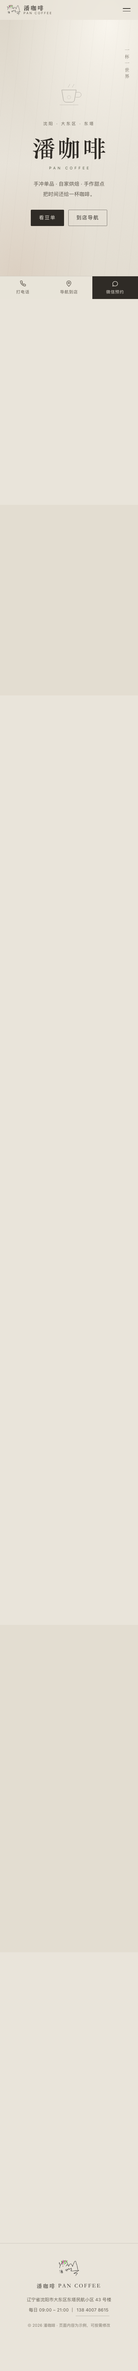
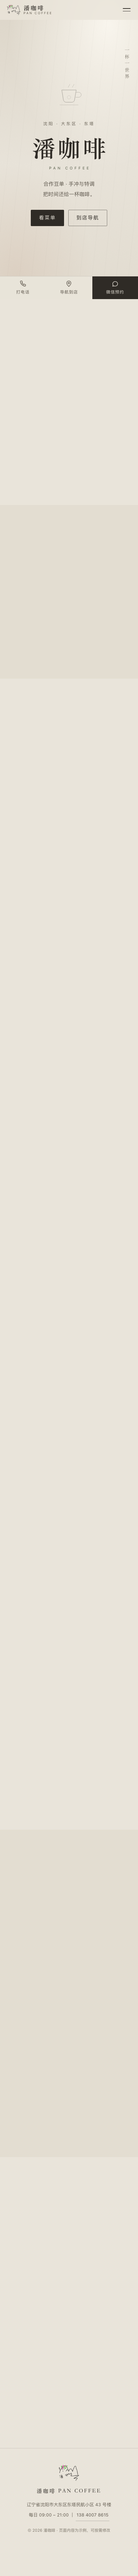
恢复菜单显示，内容改用「秋天菜单」
- 菜单区块取消注释并整体替换：5 个分类（美式/拿铁/季节限定/咖啡特调/冰沙&果茶）共 28 款
- 两个价格按已确认的「中杯 / 大杯」录入，显示为 ¥中杯/大杯，次价格小字弱化；价格列右对齐
- 序号归位为 壹~陆，抽屉目录恢复 6 项，首屏主按钮还原为「看菜单」→ #menu
- 招牌推荐 4 张卡片换成菜单里的真实款（潘神/雪国/东塔/蜂蜜黄油 Dirty），只写名称+品类+价格
- 修正此前我编造的失实文案：首屏与 SEO 去掉「自家烘焙/手作甜点」改为「合作豆单 · 手冲与特调」；
  关于正文「每周小批烘焙」改为合作烘焙商豆单；数据条改为可核实的 17 在售豆款 / 28 菜单饮品 / 5 菜单分类

diff --git a/index.html b/index.html
@@ -5,10 +5,10 @@
 <meta name="viewport" content="width=device-width, initial-scale=1, viewport-fit=cover">
 <meta name="theme-color" content="#e9e4da">
 <meta name="format-detection" content="telephone=no">
-<title>潘咖啡 · 手冲与自家烘焙｜沈阳大东区东塔</title>
-<meta name="description" content="潘咖啡，藏在沈阳大东区东塔民航小区里的手冲咖啡馆。自家烘焙单品豆、意式咖啡与手作甜点，欢迎来坐一会儿。">
+<title>潘咖啡 · 合作豆单与手冲特调｜沈阳大东区东塔</title>
+<meta name="description" content="潘咖啡，藏在沈阳大东区东塔民航小区里的咖啡店。合作豆单、手冲与咖啡特调，秋天菜单已上线，欢迎来坐一会儿。">
 <meta property="og:type" content="website">
-<meta property="og:title" content="潘咖啡 · 手冲与自家烘焙">
+<meta property="og:title" content="潘咖啡 · 合作豆单与手冲特调">
 <meta property="og:description" content="沈阳大东区东塔 · 一杯慢慢喝的手冲咖啡。">
 
 <!-- 图标由 logo 生成，见 img/ 目录 -->
@@ -21,7 +21,7 @@
   "@context": "https://schema.org",
   "@type": "CafeOrCoffeeShop",
   "name": "潘咖啡",
-  "description": "手冲单品与自家烘焙咖啡，沈阳大东区东塔。",
+  "description": "合作豆单、手冲与咖啡特调，沈阳大东区东塔。",
   "telephone": "+86 138 4007 8615",
   "address": {
     "@type": "PostalAddress",
@@ -62,9 +62,10 @@
     <ul class="drawer__list">
       <li><a href="#about"><span>壹</span>关于潘咖啡</a></li>
       <li><a href="#signature"><span>贰</span>招牌推荐</a></li>
-      <li><a href="#beans"><span>叁</span>潘咖啡合作豆单</a></li>
-      <li><a href="#store"><span>肆</span>到店信息</a></li>
-      <li><a href="#gallery"><span>伍</span>店内一角</a></li>
+      <li><a href="#menu"><span>叁</span>菜单与价格</a></li>
+      <li><a href="#beans"><span>肆</span>潘咖啡合作豆单</a></li>
+      <li><a href="#store"><span>伍</span>到店信息</a></li>
+      <li><a href="#gallery"><span>陆</span>店内一角</a></li>
     </ul>
     <div class="drawer__foot">
       <p>沈阳市大东区东塔民航小区 43 号楼</p>
@@ -95,9 +96,9 @@
       <p class="hero__eyebrow">沈阳 · 大东区 · 东塔</p>
       <h1 class="hero__title">潘咖啡</h1>
       <p class="hero__latin">PAN&nbsp;COFFEE</p>
-      <p class="hero__lead">手冲单品 · 自家烘焙 · 手作甜点<br>把时间还给一杯咖啡。</p>
+      <p class="hero__lead">合作豆单 · 手冲与特调<br>把时间还给一杯咖啡。</p>
       <div class="hero__actions">
-        <a class="btn btn--solid" href="#beans">看豆单</a>
+        <a class="btn btn--solid" href="#menu">看菜单</a>
         <a class="btn btn--ghost" href="#store">到店导航</a>
       </div>
     </div>
@@ -116,22 +117,22 @@
 
     <div class="prose" data-reveal>
       <p>店不大，在老小区的一楼，窗外是东塔的树影。我们没有很响的音乐，只有磨豆机、手冲壶的水声，和偶尔翻书的声音。</p>
-      <p>豆子每周小批烘焙，浅中焙为主，尽量做出干净、透亮的味道。手冲默认按你的口味调整水温与粉水比，喝不惯苦的，可以直接告诉我们。</p>
+      <p>豆子来自合作烘焙商的豆单，以浅中焙为主，尽量做出干净、透亮的味道。喝不惯苦的，可以直接告诉我们。</p>
       <p>不必讲究，坐一会儿就好。</p>
     </div>
 
     <ul class="facts" data-reveal>
       <li>
-        <b>每周</b>
-        <span>小批量烘焙</span>
+        <b>17</b>
+        <span>在售豆款</span>
       </li>
       <li>
-        <b>6 – 8</b>
-        <span>常备单品豆</span>
+        <b>28</b>
+        <span>菜单饮品</span>
       </li>
       <li>
-        <b>不限时</b>
-        <span>不催座 · 可续水</span>
+        <b>5</b>
+        <span>菜单分类</span>
       </li>
     </ul>
   </section>
@@ -153,9 +154,9 @@
             <path d="M34 46v10" opacity=".6"/>
           </svg>
         </div>
-        <h3>手冲单品</h3>
-        <p>埃塞俄比亚、哥伦比亚、云南轮换。<br>一杯约 200ml，慢慢喝。</p>
-        <p class="card__price">¥32 起</p>
+        <h3>潘神</h3>
+        <p>咖啡特调</p>
+        <p class="card__price">¥38</p>
       </li>
 
       <li class="card">
@@ -167,109 +168,190 @@
             <path d="M30 38c4-5 12-5 16 0" opacity=".7"/>
           </svg>
         </div>
-        <h3>桂花生椰拿铁</h3>
-        <p>厚椰乳打底，撒一小撮干桂花。<br>热饮更香，冰饮更清爽。</p>
-        <p class="card__price">¥34</p>
+        <h3>雪国</h3>
+        <p>咖啡特调</p>
+        <p class="card__price">¥38</p>
       </li>
 
       <li class="card">
-        <div class="card__art card__art--cake" aria-hidden="true">
+        <div class="card__art card__art--tall" aria-hidden="true">
           <svg viewBox="0 0 80 80" fill="none" stroke="currentColor" stroke-linecap="round" stroke-width="1.3">
-            <path d="M22 40h36v14a6 6 0 0 1-6 6H28a6 6 0 0 1-6-6z"/>
-            <path d="M22 46c6 4 12-2 18 1s12-5 18-1" opacity=".6"/>
-            <path d="M40 22v18" opacity=".4"/>
+            <path d="M27 24h26l-3 40a6 6 0 0 1-6 5h-8a6 6 0 0 1-6-5z"/>
+            <path d="M29 40h22" opacity=".6"/>
+            <path d="M48 10l-6 14" opacity=".5"/>
           </svg>
         </div>
-        <h3>巴斯克芝士</h3>
-        <p>外层焦香、内里流心，<br>配手冲或美式都合适。</p>
-        <p class="card__price">¥32</p>
+        <h3>东塔</h3>
+        <p>咖啡特调</p>
+        <p class="card__price">¥35</p>
       </li>
 
       <li class="card">
-        <div class="card__art card__art--bean" aria-hidden="true">
+        <div class="card__art card__art--dirty" aria-hidden="true">
           <svg viewBox="0 0 80 80" fill="none" stroke="currentColor" stroke-linecap="round" stroke-width="1.3">
-            <ellipse cx="32" cy="38" rx="12" ry="16" transform="rotate(-24 32 38)"/>
-            <path d="M24 30c6 6 8 14 6 22" opacity=".6"/>
-            <ellipse cx="52" cy="46" rx="9" ry="12" transform="rotate(18 52 46)"/>
+            <path d="M25 22h30v12a15 15 0 0 1-30 0z"/>
+            <path d="M25 44a15 15 0 0 0 30 0" opacity=".7"/>
+            <path d="M25 34h30" opacity=".45"/>
+            <path d="M56 26h5a5 5 0 0 1 0 10h-6" opacity=".55"/>
           </svg>
         </div>
-        <h3>挂耳 / 熟豆</h3>
-        <p>店内同款豆子，可带走。<br>挂耳一盒 10 包，熟豆半磅起。</p>
-        <p class="card__price">¥58 起</p>
+        <h3>蜂蜜黄油 Dirty</h3>
+        <p>季节限定</p>
+        <p class="card__price">¥26</p>
       </li>
     </ul>
   </section>
 
-  <!-- ▸▸ 菜单与价格：临时隐藏 ▸▸ 恢复方法见 README「临时隐藏的内容」一节
-       ① 删掉本行与末尾「临时隐藏结束」那一行注释标记
-       ② 把豆单 / 到店信息 / 店内一角的序号改回 肆 / 伍 / 陆
-       ③ 首屏主按钮改回 href="#menu"、文字「看菜单」
-       ④ 抽屉目录加回「叁 菜单与价格」，后面三项序号顺延回 肆 / 伍 / 陆
-
+  <!-- ============ 菜单 ============ -->
   <section class="section" id="menu">
     <header class="section__head" data-reveal>
       <p class="section__num">叁</p>
       <h2 class="section__title">菜单与价格</h2>
-      <p class="section__note">价格为示例，请以店内为准</p>
+      <p class="section__note">两个价格依次为中杯 / 大杯 · 共 28 款</p>
     </header>
 
     <div class="tabs" role="tablist" aria-label="菜单分类" data-reveal>
-      <button class="tab is-active" type="button" role="tab" aria-selected="true" data-cat="pour">手冲单品</button>
-      <button class="tab" type="button" role="tab" aria-selected="false" data-cat="espresso">意式咖啡</button>
-      <button class="tab" type="button" role="tab" aria-selected="false" data-cat="special">特调</button>
-      <button class="tab" type="button" role="tab" aria-selected="false" data-cat="other">非咖啡</button>
-      <button class="tab" type="button" role="tab" aria-selected="false" data-cat="dessert">甜点</button>
+      <button class="tab is-active" type="button" role="tab" aria-selected="true" data-cat="americano">美式</button>
+      <button class="tab" type="button" role="tab" aria-selected="false" data-cat="latte">拿铁</button>
+      <button class="tab" type="button" role="tab" aria-selected="false" data-cat="seasonal">季节限定</button>
+      <button class="tab" type="button" role="tab" aria-selected="false" data-cat="special">咖啡特调</button>
+      <button class="tab" type="button" role="tab" aria-selected="false" data-cat="iced">冰沙 & 果茶</button>
     </div>
 
     <div class="menu" data-reveal>
-      <ul class="menu__list is-active" data-panel="pour">
-        <li class="item"><div class="item__main"><h3>耶加雪菲 <i>水洗</i></h3><p>埃塞俄比亚 · 柑橘 白花 蜂蜜</p></div><p class="item__price">¥38</p></li>
-        <li class="item"><div class="item__main"><h3>西达摩 <i>日晒</i></h3><p>埃塞俄比亚 · 蓝莓 红酒 可可</p></div><p class="item__price">¥42</p></li>
-        <li class="item"><div class="item__main"><h3>慧兰 <i>水洗</i></h3><p>哥伦比亚 · 焦糖 坚果 柑橘</p></div><p class="item__price">¥36</p></li>
-        <li class="item"><div class="item__main"><h3>保山 <i>日晒</i></h3><p>云南 · 红糖 桂圆 莓果</p></div><p class="item__price">¥32</p></li>
-        <li class="item"><div class="item__main"><h3>店长手冲 <i>当日豆</i></h3><p>由主理人挑选，随豆单更换</p></div><p class="item__price">¥48</p></li>
+      <ul class="menu__list is-active" data-panel="americano">
+        <li class="item">
+          <div class="item__main"><h3>拼配美式</h3></div>
+          <p class="item__price">¥15<span>/18</span></p>
+        </li>
+        <li class="item">
+          <div class="item__main"><h3>SOE 美式</h3></div>
+          <p class="item__price">¥18</p>
+        </li>
+        <li class="item">
+          <div class="item__main"><h3>罗望子美式</h3></div>
+          <p class="item__price">¥24</p>
+        </li>
+        <li class="item">
+          <div class="item__main"><h3>茉莉香橙、树莓山楂气泡美式</h3></div>
+          <p class="item__price">¥20<span>/24</span></p>
+        </li>
       </ul>
 
-      <ul class="menu__list" data-panel="espresso">
-        <li class="item"><div class="item__main"><h3>浓缩 Espresso</h3><p>双份 · 中深焙拼配</p></div><p class="item__price">¥18</p></li>
-        <li class="item"><div class="item__main"><h3>美式 Americano</h3><p>冰 / 热</p></div><p class="item__price">¥22</p></li>
-        <li class="item"><div class="item__main"><h3>拿铁 Latte</h3><p>更换燕麦奶 +3</p></div><p class="item__price">¥28</p></li>
-        <li class="item"><div class="item__main"><h3>卡布奇诺</h3><p>奶泡厚一些</p></div><p class="item__price">¥28</p></li>
-        <li class="item"><div class="item__main"><h3>澳白 Flat White</h3><p>奶量少，咖啡味更足</p></div><p class="item__price">¥30</p></li>
-        <li class="item"><div class="item__main"><h3>摩卡 Mocha</h3><p>黑巧 + 淡奶油</p></div><p class="item__price">¥32</p></li>
+      <ul class="menu__list" data-panel="latte">
+        <li class="item">
+          <div class="item__main"><h3>拿铁 / 澳白</h3></div>
+          <p class="item__price">¥18<span>/24</span></p>
+        </li>
+        <li class="item">
+          <div class="item__main"><h3>SOE 拿铁</h3></div>
+          <p class="item__price">¥20</p>
+        </li>
+        <li class="item">
+          <div class="item__main"><h3>燕麦拿铁</h3></div>
+          <p class="item__price">¥20<span>/28</span></p>
+        </li>
+        <li class="item">
+          <div class="item__main"><h3>冰博客拿铁</h3></div>
+          <p class="item__price">¥20<span>/28</span></p>
+        </li>
+        <li class="item">
+          <div class="item__main"><h3>开心果拿铁</h3></div>
+          <p class="item__price">¥25<span>/32</span></p>
+        </li>
+        <li class="item">
+          <div class="item__main"><h3>风味拿铁</h3></div>
+          <p class="item__price">¥20<span>/28</span></p>
+        </li>
+        <li class="item">
+          <div class="item__main"><h3>焦糖饼干拿铁</h3></div>
+          <p class="item__price">¥25<span>/32</span></p>
+        </li>
+        <li class="item">
+          <div class="item__main"><h3>Dirty</h3></div>
+          <p class="item__price">¥22</p>
+        </li>
+      </ul>
+
+      <ul class="menu__list" data-panel="seasonal">
+        <li class="item">
+          <div class="item__main"><h3>荔枝燕麦拿铁</h3></div>
+          <p class="item__price">¥24<span>/28</span></p>
+        </li>
+        <li class="item">
+          <div class="item__main"><h3>荔枝气泡美式</h3></div>
+          <p class="item__price">¥24<span>/26</span></p>
+        </li>
+        <li class="item">
+          <div class="item__main"><h3>黄油脆脆拿铁</h3></div>
+          <p class="item__price">¥25<span>/32</span></p>
+        </li>
+        <li class="item">
+          <div class="item__main"><h3>蜂蜜黄油 Dirty</h3></div>
+          <p class="item__price">¥26</p>
+        </li>
       </ul>
 
       <ul class="menu__list" data-panel="special">
-        <li class="item"><div class="item__main"><h3>冷萃 Cold Brew</h3><p>低温浸泡 16 小时 · 微气泡</p></div><p class="item__price">¥30</p></li>
-        <li class="item"><div class="item__main"><h3>桂花生椰拿铁</h3><p>招牌 · 可热可冰</p></div><p class="item__price">¥34</p></li>
-        <li class="item"><div class="item__main"><h3>橙 C 美式</h3><p>鲜榨橙汁 + 浓缩</p></div><p class="item__price">¥32</p></li>
-        <li class="item"><div class="item__main"><h3>西柚气泡冷萃</h3><p>苏打 + 西柚 + 冷萃</p></div><p class="item__price">¥36</p></li>
+        <li class="item">
+          <div class="item__main"><h3>潘神</h3></div>
+          <p class="item__price">¥38</p>
+        </li>
+        <li class="item">
+          <div class="item__main"><h3>雪国</h3></div>
+          <p class="item__price">¥38</p>
+        </li>
+        <li class="item">
+          <div class="item__main"><h3>爱</h3></div>
+          <p class="item__price">¥35</p>
+        </li>
+        <li class="item">
+          <div class="item__main"><h3>东塔</h3></div>
+          <p class="item__price">¥35</p>
+        </li>
       </ul>
 
-      <ul class="menu__list" data-panel="other">
-        <li class="item"><div class="item__main"><h3>抹茶拿铁</h3><p>无糖可选</p></div><p class="item__price">¥30</p></li>
-        <li class="item"><div class="item__main"><h3>焙茶拿铁</h3><p>焦香焙茶 · 热饮为主</p></div><p class="item__price">¥30</p></li>
-        <li class="item"><div class="item__main"><h3>鲜奶可可</h3><p>75% 黑巧</p></div><p class="item__price">¥26</p></li>
-        <li class="item"><div class="item__main"><h3>手作柠檬水</h3><p>无咖啡因 · 免费续水</p></div><p class="item__price">¥22</p></li>
-      </ul>
-
-      <ul class="menu__list" data-panel="dessert">
-        <li class="item"><div class="item__main"><h3>巴斯克芝士</h3><p>每日限量 12 块</p></div><p class="item__price">¥32</p></li>
-        <li class="item"><div class="item__main"><h3>可露丽</h3><p>外脆内软 · 配手冲很合</p></div><p class="item__price">¥18</p></li>
-        <li class="item"><div class="item__main"><h3>原味司康</h3><p>附果酱与黄油</p></div><p class="item__price">¥20</p></li>
-        <li class="item"><div class="item__main"><h3>手作曲奇</h3><p>按块售卖 · 可打包</p></div><p class="item__price">¥15</p></li>
+      <ul class="menu__list" data-panel="iced">
+        <li class="item">
+          <div class="item__main"><h3>草莓酸奶冰沙</h3></div>
+          <p class="item__price">¥24</p>
+        </li>
+        <li class="item">
+          <div class="item__main"><h3>抹茶可可碎冰沙</h3></div>
+          <p class="item__price">¥24</p>
+        </li>
+        <li class="item">
+          <div class="item__main"><h3>焦糖咖啡冰沙</h3></div>
+          <p class="item__price">¥24</p>
+        </li>
+        <li class="item">
+          <div class="item__main"><h3>蜂蜜柚子茶</h3></div>
+          <p class="item__price">¥20</p>
+        </li>
+        <li class="item">
+          <div class="item__main"><h3>咖啡果皮茶</h3></div>
+          <p class="item__price">¥20</p>
+        </li>
+        <li class="item">
+          <div class="item__main"><h3>咸话梅柠檬茶</h3></div>
+          <p class="item__price">¥20</p>
+        </li>
+        <li class="item">
+          <div class="item__main"><h3>抹茶拿铁</h3></div>
+          <p class="item__price">¥20<span>/24</span></p>
+        </li>
+        <li class="item">
+          <div class="item__main"><h3>可可鲜奶</h3></div>
+          <p class="item__price">¥20<span>/24</span></p>
+        </li>
       </ul>
     </div>
-
-    <p class="menu__foot" data-reveal>自带杯立减 ¥3 ｜ 堂食不限时，提供白水与 WiFi</p>
   </section>
-
-  ▸▸ 菜单与价格：临时隐藏结束 ▸▸ -->
 
   <!-- ============ 合作豆单 ============ -->
   <section class="section" id="beans">
     <header class="section__head" data-reveal>
-      <p class="section__num">叁</p>
+      <p class="section__num">肆</p>
       <h2 class="section__title">潘咖啡合作豆单</h2>
       <p class="section__note">整袋价格 · 分 454g 与 200g 两种规格</p>
     </header>
@@ -411,7 +493,7 @@
   <!-- ============ 到店信息 ============ -->
   <section class="section section--tint" id="store">
     <header class="section__head" data-reveal>
-      <p class="section__num">肆</p>
+      <p class="section__num">伍</p>
       <h2 class="section__title">到店信息</h2>
     </header>
 
@@ -463,7 +545,7 @@
   <!-- ============ 店内一角 ============ -->
   <section class="section" id="gallery">
     <header class="section__head" data-reveal>
-      <p class="section__num">伍</p>
+      <p class="section__num">陆</p>
       <h2 class="section__title">店内一角</h2>
       <p class="section__note">实拍照片可替换此处的占位图</p>
     </header>

diff --git a/css/style.css b/css/style.css
@@ -437,8 +437,14 @@ button {
 .item p { margin-top: 5px; font-size: 12px; color: var(--muted); }
 .item .item__price {
   flex: 0 0 auto;
+  min-width: 46px;            /* 单价/双价混排时价格列仍对齐 */
+  text-align: right;
   font-family: var(--font-serif); font-size: 15px;
   color: var(--ink);
+}
+/* 双价：¥中杯 / 大杯 —— 第二个价格弱化，避免抢主信息 */
+.item .item__price span {
+  font-size: 11.5px; color: var(--muted); letter-spacing: 0;
 }
 .menu__foot {
   margin-top: 22px; font-size: 12px; color: var(--muted);
